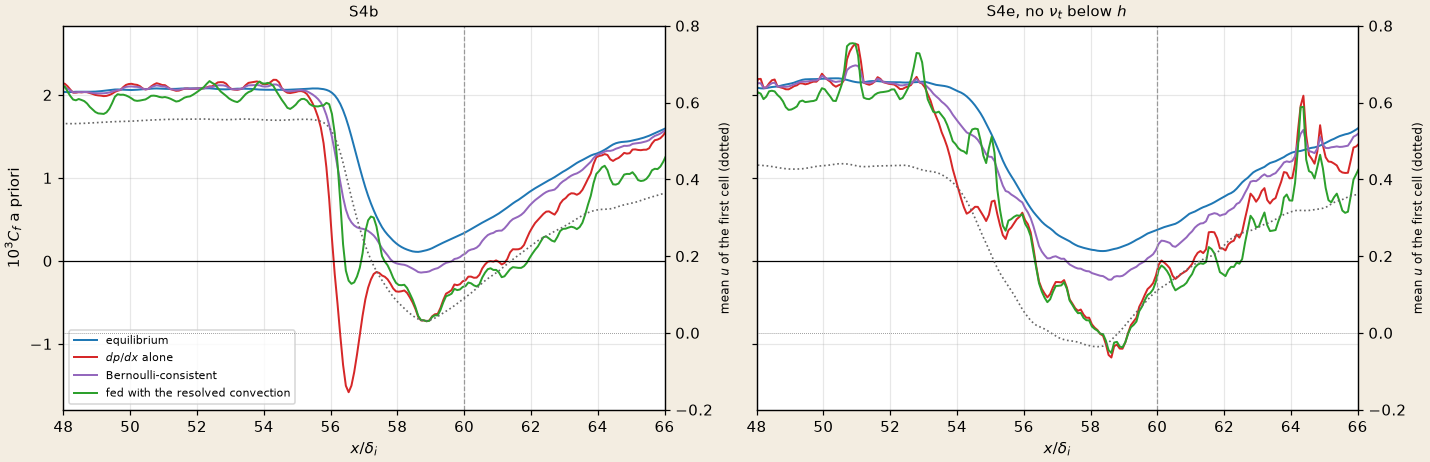
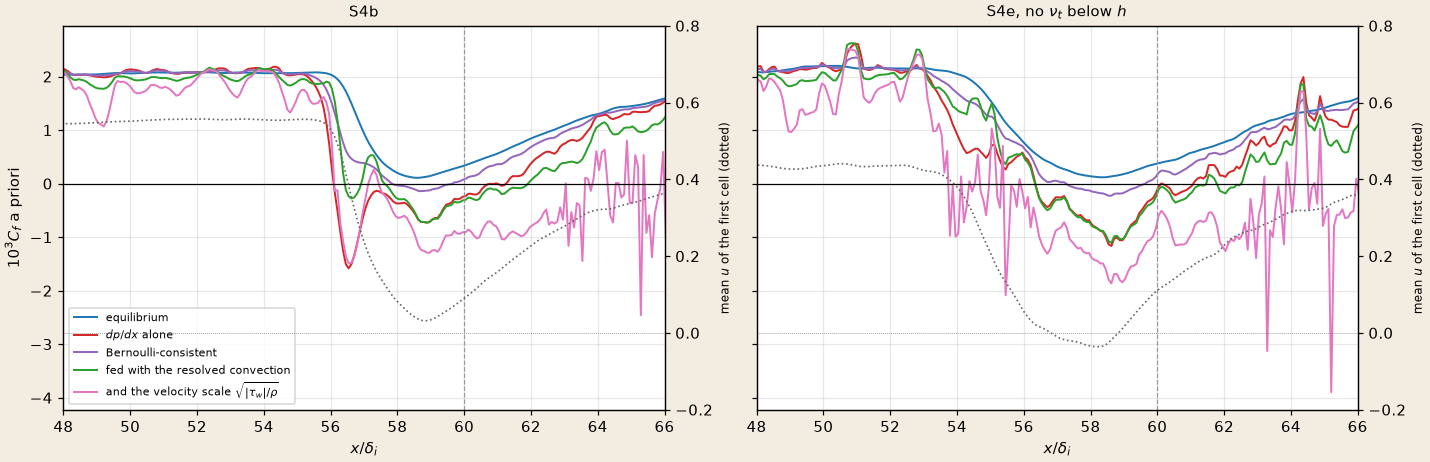
docs(flume): S4i, the convection-fed wall model without the resolved stress in the SBLI: tau_w reverses, the flow does not (#121)
P3 item 4. S4b restarted at t 1200 with wall_model_resolved_stress (the resolved stress removed, the
velocity scale from tau_w; it passes the zero-gradient gate), to t 1450 (job 1367094, one node,
4 A30, 6 h 01 min), statistics over the 24 checkpoints of t >= 1300 (post-processing job 1367097:
compare, fields, compression, reversal).

- C_f < 0 over x 56.96-62.38 (3.01 delta_0, negative over 1.99 of it), minimum -3.41e-3 at x 57.3,
  while the time-mean u of the first cell stays positive (minimum 0.068); the resolved flow reverses
  half as much as S4b's; L_int 2.94 delta_0 (S4b 3.16, DNS 3.30), the onset 0.5 delta_0 later;
  upstream C_f within 6 % of S4b's (S4h +5..+12 %).
- The cause is the velocity scale: as tau_w approaches zero the eddy viscosity vanishes and the
  integrated adverse forcing puts tau_w on a negative, laminar branch. sbli_oracle.py convective
  gains the variant (cf_convective_tau): on S4b's mean field it is negative over 81 % of
  55 <= x <= 64 (the |tau| + |S| scale 54 %), minimum -2.46e-3, 23 sign changes against 2-4.
- sbli_oracle.py compare prints "nowhere" instead of nan when nothing separates.

Docs: sbli.md "The run: S4i" (two tables, three bullets), the header S4b-S4i, the captions, Not done;
streams index row S4i; turbulence.md and input.md: the key's scale fails under the adverse
gradient; figures sbli-pg-runs, sbli-reversal, sbli-convective (light and dark) with S4i and the
tau_w-scale a priori.
[…]

diff --git a/src/tests/flume/verification/turbulence/sbli_oracle.py b/src/tests/flume/verification/turbulence/sbli_oracle.py
@@ -205,9 +205,10 @@ def compare(work: Path, x_imp: float, theta_deg: float, t0: float, json_out: str
     print(f"incoming layer at x_imp = {x_imp:g} (fit over [{x_imp - 15:g}, {x_imp - 6:g}]): delta_0 {delta0:.3f}, delta* {dstar0:.4f} (nominal {dstar0_nom:.4f}), "
           f"theta {theta0:.4f}, Re_theta {re_theta_nom:.0f} (against the edge state {re_theta_edge:.0f}); H at x_imp - 10 {h_edge[int((x_imp - 10) / dx)]:.2f}")
     print(f"wall pressure upstream: p_w / p_inf {np.mean(p_w[(x > x_imp - 25.0) & (x < x_imp - 15.0)]) / p_inf:.4f} over [{x_imp - 25:g}, {x_imp - 15:g}]")
-    print(f"separation: C_f < 0 from x = {x_sep:.2f} to {x_att:.2f}: L_sep / delta_0 {l_sep / delta0:.2f} (Volpiani et al. adiabatic {theta_deg:g} deg, Re_theta 1050: "
-          f"{vol.get('a', float('nan')):.2f})")
-    print(f"separation of the resolved flow: mean u < 0 in the first cell from x = {x_sep1:.2f} to {x_att1:.2f}: L_sep / delta_0 {l_sep1 / delta0:.2f}")
+    span = f"from x = {x_sep:.2f} to {x_att:.2f}: L_sep / delta_0 {l_sep / delta0:.2f}" if l_sep > 0.0 else "nowhere: L_sep 0"
+    print(f"separation: C_f < 0 {span} (Volpiani et al. adiabatic {theta_deg:g} deg, Re_theta 1050: {vol.get('a', float('nan')):.2f})")
+    span = f"from x = {x_sep1:.2f} to {x_att1:.2f}: L_sep / delta_0 {l_sep1 / delta0:.2f}" if l_sep1 > 0.0 else "nowhere: L_sep 0"
+    print(f"separation of the resolved flow: mean u < 0 in the first cell {span}")
     print(f"incident shock: foot at x = {x_inc_wall:.2f} (x_imp {x_imp:g}); reflected shock: {len(yr)} rows, {beta_r:.2f} deg to the wall, apparent origin x_ref {x_ref:.2f}")
     print(f"L_int = x_imp - x_ref {l_int:.3f}: L_int / delta_0 {l_int / delta0:.2f} (Volpiani et al. {vol.get('b', float('nan')):.2f}); Souverein L* = L_int / (delta* g3) "
           f"{l_star:.3f}, g3 {g3:.3f}, Se {se:.3f}")
@@ -581,7 +582,8 @@ def convective(npz: Path, json_out: str | None, gas_args: dict) -> int:
     (linear in y between the cell centres, F(0) = dp/dx: no convection at the wall), the eddy viscosity on sqrt((|tau| + |S|) / rho): the
     steady thin-boundary-layer balance of Wang & Moin (2002) or Park & Moin (2014), with the convection taken from the resolved cells instead of
     from its own profile. Against: the equilibrium model, the pressure gradient alone (S4d's), the Bernoulli-consistent one (S4g's), and the mean
-    u of the first cell. A priori on time means: what the model would return for the mean field, not what a run with it converges to."""
+    u of the first cell; and the eddy viscosity on sqrt(|tau| / rho) (`wall_model_resolved_stress`: on a mean field the convection is the mean
+    flow's, without the resolved stress the key removes). A priori on time means: what the model would return for the mean field, not what a run with it converges to."""
     d = np.load(npz)
     x, y, delta0, x_imp = d["x"], d["y"], float(d["delta0"]), float(d["x_imp"])
     dx, dy = x[1] - x[0], y[1] - y[0]
@@ -620,6 +622,7 @@ def convective(npz: Path, json_out: str | None, gas_args: dict) -> int:
     cf_pg = 2.0 * wall_model(h, us, ts, ps, tw, gas, px=px[idx])[0]
     cf_b = 2.0 * wall_model(h, us, ts, ps, tw, gas, px=px[idx], ypg=4.0)[0]
     cf_c = 2.0 * wall_model(h, us, ts, ps, tw, gas, forcing=forcing)[0]
+    cf_ct = 2.0 * wall_model(h, us, ts, ps, tw, gas, forcing=forcing, scale="tau")[0]  # wall_model_resolved_stress's velocity scale
     xs = x[idx]
 
     def sep(cf: np.ndarray) -> str:
@@ -628,13 +631,13 @@ def convective(npz: Path, json_out: str | None, gas_args: dict) -> int:
 
     u1 = u[idx, 0]
     print(f"== {npz.stem}: x {xs[0]:.1f}-{xs[-1]:.1f}, sample the 3rd cell (h {2.5 * dy:.3f}), delta_0 {delta0:.3f}")
-    print(f"  C_f < 0, equilibrium model: {sep(cf_eq)}; dp/dx alone: {sep(cf_pg)}; Bernoulli-consistent: {sep(cf_b)}; convection-fed: {sep(cf_c)}")
+    print(f"  C_f < 0, equilibrium model: {sep(cf_eq)}; dp/dx alone: {sep(cf_pg)}; Bernoulli-consistent: {sep(cf_b)}; convection-fed: {sep(cf_c)}; and the velocity scale from tau_w: {sep(cf_ct)}")
     print(f"  mean u < 0 in the first cell: {sep(u1)}")
     print(f"  C_f minimum (1e-3): equilibrium {1e3 * cf_eq.min():.3f}, dp/dx {1e3 * cf_pg.min():.3f}, Bernoulli {1e3 * cf_b.min():.3f}, "
-          f"convection-fed {1e3 * cf_c.min():.3f}")
+          f"convection-fed {1e3 * cf_c.min():.3f}, and the scale from tau_w {1e3 * cf_ct.min():.3f}")
     if json_out:
         Path(json_out).write_text(json.dumps({"x": xs.tolist(), "cf_eq": cf_eq.tolist(), "cf_pg": cf_pg.tolist(), "cf_bernoulli": cf_b.tolist(),
-                                              "cf_convective": cf_c.tolist(), "u1": u1.tolist(), "delta0": delta0, "x_imp": x_imp}))
+                                              "cf_convective": cf_c.tolist(), "cf_convective_tau": cf_ct.tolist(), "u1": u1.tolist(), "delta0": delta0, "x_imp": x_imp}))
     return 0
 
 def main() -> int:

diff --git a/src/tests/flume/verification/make_doc_figures.py b/src/tests/flume/verification/make_doc_figures.py
@@ -3155,15 +3155,16 @@ def fig_sbli_pg(out: Path, runs: Path) -> None:
 
 def fig_sbli_pg_runs(out: Path, runs: Path) -> None:
     """#121 P1, P2: the pressure-gradient runs restarted from S4b at t = 1200, statistics t >= 1300: S4d (dp/dx), S4g (dp/dx, Bernoulli-consistent,
-    y*_pg 4), S4f (dp/dx without the eddy viscosity below h), S4h (fed with the resolved convection, when its JSON exists), with S4b and S4e (no
+    y*_pg 4), S4f (dp/dx without the eddy viscosity below h), S4h (fed with the resolved convection), S4i (and the resolved stress
+    removed, the velocity scale from tau_w), each when its JSON exists, with S4b and S4e (no
     eddy viscosity, no dp/dx). Data: the sbli_oracle compare JSONs
-    <runs>/sbli/sbli-m2p28-8{,-pg,-pgb,-pgnu,-nonu}.json. Left: the mean wall pressure against x* with the DNS and the experiment; right: C_f against x,
+    <runs>/sbli/sbli-m2p28-8{,-pg,-pgb,-pgnu,-nonu,-pgc,-pgr}.json. Left: the mean wall pressure against x* with the DNS and the experiment; right: C_f against x,
     the reversed stretches shaded."""
     import json  # noqa: PLC0415
 
     runs_ = [("sbli-m2p28-8", "C0", "S4b"), ("sbli-m2p28-8-nonu", "C1", r"S4e, no $\nu_t$ below $h$"), ("sbli-m2p28-8-pg", "C3", "S4d, $dp/dx$"),
              ("sbli-m2p28-8-pgb", "C4", "S4g, $dp/dx$ Bernoulli-consistent"), ("sbli-m2p28-8-pgnu", "C2", r"S4f, $dp/dx$, no $\nu_t$ below $h$"),
-             ("sbli-m2p28-8-pgc", "k", "S4h, fed with the resolved convection")]
+             ("sbli-m2p28-8-pgc", "k", "S4h, fed with the resolved convection"), ("sbli-m2p28-8-pgr", "C6", "S4i, and the resolved stress removed")]
     runs_ = [r for r in runs_ if (runs / "sbli" / f"{r[0]}.json").exists()]
     js = {name: json.loads((runs / "sbli" / f"{name}.json").read_text()) for name, _, _ in runs_}
     fig, axs = plt.subplots(1, 2, figsize=(13.0, 4.4), constrained_layout=True)
@@ -3207,7 +3208,8 @@ def fig_sbli_reversal(out: Path, runs: Path) -> None:
     import json  # noqa: PLC0415
 
     runs_ = [("s4b", "S4b", "C0"), ("s4c", "S4c, 2:1 box", "C2"), ("s4d", "S4d, $dp/dx$", "C3"), ("s4e", r"S4e, no $\nu_t$ below $h$", "C1"),
-             ("s4f", r"S4f, $dp/dx$, no $\nu_t$", "C5"), ("s4g", "S4g, Bernoulli-consistent", "C4"), ("s4h", "S4h, convection-fed", "k")]
+             ("s4f", r"S4f, $dp/dx$, no $\nu_t$", "C5"), ("s4g", "S4g, Bernoulli-consistent", "C4"), ("s4h", "S4h, convection-fed", "k"),
+             ("s4i", "S4i, resolved stress removed", "C6")]
     runs_ = [r for r in runs_ if (runs / "sbli" / f"rev2-{r[0]}.json").exists()]
     fig, axs = plt.subplots(1, 2, figsize=(13.0, 4.2), constrained_layout=True, gridspec_kw={"width_ratios": [1.6, 1.0]})
     first, third, labels, colors = [], [], [], []
@@ -3236,8 +3238,9 @@ def fig_sbli_reversal(out: Path, runs: Path) -> None:
 
 def fig_sbli_convective(out: Path, runs: Path) -> None:
     """#121: the wall model a priori on the mean fields of S4b and S4e (turbulence/sbli_oracle.py convective, <runs>/sbli/<case>-convective.json):
-    C_f of the equilibrium model, with the pressure gradient alone, Bernoulli-consistent, and fed with the convection of the resolved cells below
-    the sample; the mean u of the first cell on the right axis."""
+    C_f of the equilibrium model, with the pressure gradient alone, Bernoulli-consistent, fed with the convection of the resolved cells below
+    the sample, and that with the velocity scale from tau_w (wall_model_resolved_stress, when the JSON holds it); the mean u of the first cell on the
+    right axis."""
     import json  # noqa: PLC0415
 
     fig, axs = plt.subplots(1, 2, figsize=(13.0, 4.2), constrained_layout=True, sharey=True)
@@ -3245,8 +3248,10 @@ def fig_sbli_convective(out: Path, runs: Path) -> None:
         j = json.loads((runs / "sbli" / f"{case}-convective.json").read_text())
         x = np.array(j["x"])
         for key, c, name in (("cf_eq", "C0", "equilibrium"), ("cf_pg", "C3", "$dp/dx$ alone"), ("cf_bernoulli", "C4", "Bernoulli-consistent"),
-                             ("cf_convective", "C2", "fed with the resolved convection")):
-            ax.plot(x, 1e3 * np.array(j[key]), "-", color=c, lw=1.3, label=name)
+                             ("cf_convective", "C2", "fed with the resolved convection"),
+                             ("cf_convective_tau", "C6", r"and the velocity scale $\sqrt{|\tau_w|/\rho}$")):
+            if key in j:
+                ax.plot(x, 1e3 * np.array(j[key]), "-", color=c, lw=1.3, label=name)
         ax.axhline(0.0, color="k", lw=0.8)
         ax.axvline(j["x_imp"], color="0.6", ls="--", lw=0.8)
         ax.set_xlim(48.0, 66.0)

diff --git a/docs/applications/flume/verification/streams/sbli.md b/docs/applications/flume/verification/streams/sbli.md
@@ -2,7 +2,7 @@
 
 | ID | Milestone | Type | Legs | Backends | Figure |
 |---|---|---|---|---|---|
-| — (campaign `tbl_cases_s4.txt`) | [#121](https://github.com/szaghi/adam/issues/121) · S4b–S4h | P | none (the pressure-gradient key: wm12) | FNL | yes |
+| — (campaign `tbl_cases_s4.txt`) | [#121](https://github.com/szaghi/adam/issues/121) · S4b–S4i | P | none (the pressure-gradient key: wm12) | FNL | yes |
 
 ## Case and scope
 
@@ -417,7 +417,8 @@ Two more restarts of S4b at $t=1200$, run to $t=1450$, statistics over $t\ge1300
 
 ![The pressure-gradient runs against S4b and S4e](/flume/sbli-pg-runs.png)
 
-*Left: the mean wall pressure of S4b, S4e, S4d, S4g and S4f against the DNS and the experiment; right: $C_f$ from the
+*Left: the mean wall pressure of S4b, S4e, S4d, S4g, S4f, S4h (black, [below](#the-run-s4h)) and S4i (pink,
+[below](#the-run-s4i)) against the DNS and the experiment; right: $C_f$ from the
 wall model's $\tau_w$, the reversed stretches shaded. The legend's $L_{int}$ is `compare`'s, 0.01 below the table's.
 `make_doc_figures.py --only sbli-pg-runs`.*
 
@@ -515,7 +516,8 @@ centres, $F=dp/dx$ at the wall, where the convection vanishes) and applied to th
 
 ![The wall model a priori on the mean fields](/flume/sbli-convective.png)
 
-*$C_f$ of the four models on the mean fields of S4b (left) and S4e (right), the mean $u$ of the first cell dotted.
+*$C_f$ of the four models on the mean fields of S4b (left) and S4e (right), and of the convection-fed one with the
+velocity scale from $\tau_w$ (pink, [S4i](#the-run-s4i)); the mean $u$ of the first cell dotted.
 `sbli_oracle.py convective`, `make_doc_figures.py --only sbli-convective`.*
 
 - **Where the resolved flow obeys Bernoulli, the model follows it.** At the steepest gradient ($x\approx56.5$) the
@@ -564,11 +566,59 @@ line of [the figure above](#the-pressure-gradient-without-the-convection-with-it
 - **So the convection is a lever, and this form of it is not yet a model.** It moves both the onset and $L_{int}$ the
   right way, which no equilibrium-type variant did, but a model that changes the zero-gradient layer by 10 % fails the
   layer before the interaction. The correction is the reduced eddy viscosity (or the convection of the mean flow only),
-  checked on the zero-gradient boundary layer before the interaction.
+  checked on the zero-gradient boundary layer before the interaction: S4i, below.
+
+### The run: S4i
+
+S4h's model with `wall_model_resolved_stress` ([turbulence](../../turbulence#the-resolved-shear-stress)): the filtered
+resolved shear stress of the convection cells removed from the forcing, and the eddy viscosity's velocity scale from
+$\tau_w$ alone. It passes the zero-gradient gate (the Mach 2.5 layer's $C_f$ within 0.3 % of the equilibrium model's,
+[boundary layer](../turbulence/boundary-layer#the-wall-model-fed-with-the-resolved-convection)). S4b restarted at
+$t=1200$, to $t=1450$ on one node (4 A30, 6 h 01 min), statistics over the 24 checkpoints of $t\ge1300$; the pink line
+of [the figure above](#the-pressure-gradient-without-the-convection-with-it-and-without-the-eddy-viscosity).
+
+| | S4i, the resolved stress removed, scale from $\tau_w$ | S4h, fed with the resolved convection | S4b | DNS, $Re_\theta=6882$ |
+|---|---|---|---|---|
+| $L_{int}/\delta_0$ (the time-mean field) | **2.94** | 3.36 | 3.16 | 3.30 |
+| $C_f<0$ (`compare`) | $x=56.96$–62.38 ($3.01\,\delta_0$, $x^*=-0.58$ to 0.45), negative over $1.99\,\delta_0$ of it | 0.18 | 0 | 2.16 ($x^*=-0.8$ to $-0.15$) |
+| $C_f$ minimum ($10^{-3}$) | $-3.41$ at $x=57.3$ | $-0.30$ | 0.21 | |
+| time-mean $u<0$ in the first cell | **none** (its minimum $u$ 0.068, at $x=58.9$) | $0.41\,\delta_0$ | none | |
+| 5 % / 50 % of the rise, ahead of $x_{imp}$ | $1.85$ / $1.59\,\delta_0$ | 2.63 / 2.23 | 2.34 / 1.96 | 4.13 / 3.60 |
+| first-cell Mach number at $x_{imp}-5\,\delta_0$ | 0.98 | 0.91 | 0.98 | 0.83 |
+| reversed area per unit span, mean (max), $\delta_0^2$ | 0.033 (0.054) | 0.091 | 0.068 (0.142) | |
+| first / third cells reversed | 4.8 % / 2.5 % | | 9.5 % / 5.1 % | |
+| $C_f$ upstream against S4b: $x=15$–25, 25–35, 35–45, 45–52 | $-0.4$, $-6.0$, $-5.8$, $-2.5$ % | +5, +6, +9.5, +12 % | | |
+| $C_f$ behind the interaction against S4b: $x=64$–70, 70–80 | $-36$, $-11$ % | | | |
+
+| A priori on the mean fields (`convective`), $C_f<0$ over $55\le x\le64$ | $dp/dx$ alone | convection-fed, scale $\sqrt{(\lvert\tau_w\rvert+\lvert S\rvert)/\rho}$ | and the scale $\sqrt{\lvert\tau_w\rvert/\rho}$ |
+|---|---|---|---|
+| S4b's mean field | 56 % | 54 % (min $-0.73$) | **81 %** (min $-2.46$) |
+| S4e's | 52 % | 66 % (min $-1.11$) | **94 %** (min $-3.90$) |
+| S4i's | 42 % | 44 % (min $-1.34$) | **66 %** (min $-3.23$) |
+
+- **The wall stress reverses, the flow does not.** $C_f$ is negative over two stretches, deep at the foot of the
+  compression ($x=56.96$–57.79, down to $-3.4\cdot10^{-3}$, S4d's inconsistent balance $-1.9\cdot10^{-3}$) and
+  shallow behind the impingement ($x=59.8$–62.4). Between them, at $x=57.9$–59.7, it is positive: there the first cell is
+  slowest ($u\approx0.09$), while at the deep stretch it moves at 0.33. The resolved flow reverses less than in any
+  earlier run (half S4b's area and first-cell fraction), and its first cell never reverses in the mean.
+- **The interaction shrinks.** $L_{int}$ falls from 3.16 to $2.94\,\delta_0$ and the compression starts
+  $0.5\,\delta_0$ later than S4b's (5 % of the rise $1.85\,\delta_0$ ahead of $x_{imp}$, against 2.34; the DNS 4.13):
+  the opposite of S4h's shift. A negative wall stress under a forward first cell pushes the near-wall flow downstream,
+  against the pressure rise.
+- **The cause is the velocity scale, and the mean fields show it a priori.** With the scale from $\tau_w$, the eddy
+  viscosity vanishes as $\tau_w$ approaches zero, the model's layer becomes laminar, and the integrated adverse forcing
+  (of order $(dp/dx)\,h/2\approx5\cdot10^{-3}$) outweighs $\mu U(h)/h$ (about $7\cdot10^{-5}$): $\tau_w$ jumps to the
+  negative branch. On S4b's mean field the variant is negative over 81 % of the interaction (the scale with $|S|$ 54 %)
+  with a minimum three times deeper, and its sign changes 23 times along $x\ge54$, against 2 to 4 for the other variants.
+  The a priori was run after S4i; it would have stopped the run.
+- **So the zero-gradient gate is necessary, not sufficient.** The scale that removes the zero-gradient bias (the
+  forcing's fluctuation in $|S|$) also removes the eddy viscosity that the adverse gradient needs. Upstream the run
+  confirms the zero-gradient result: $C_f$ within 6 % of S4b's (S4h's +5 to +12 %), lower behind the inflow, as in the
+  gate's recovery stretch.
 
 ## Not done
 
-- A separation of the right length and place. The equilibrium-type models do not give it: the pressure gradient alone opens $0.6\,\delta_0$ by an inconsistent balance, the consistent one none, the slower near-wall layer $0.14\,\delta_0$ ([above](#the-pressure-gradient-without-the-convection-with-it-and-without-the-eddy-viscosity)). The model fed with the resolved convection (S4h) moves the onset and $L_{int}$ the right way and opens $0.18\,\delta_0$ where the DNS's bubble begins, but counts the resolved stress twice ($C_f$ of the zero-gradient layer +5 to +12 %): left, its reduced eddy viscosity (Park & Moin 2014), checked on the zero-gradient layer first; and a matching height fixed in $\delta_i$ across the levels.
+- A separation of the right length and place. The equilibrium-type models do not give it: the pressure gradient alone opens $0.6\,\delta_0$ by an inconsistent balance, the consistent one none, the slower near-wall layer $0.14\,\delta_0$ ([above](#the-pressure-gradient-without-the-convection-with-it-and-without-the-eddy-viscosity)). The model fed with the resolved convection (S4h) moves the onset and $L_{int}$ the right way and opens $0.18\,\delta_0$ where the DNS's bubble begins, but counts the resolved stress twice ($C_f$ of the zero-gradient layer +5 to +12 %). With the resolved stress removed and the velocity scale from $\tau_w$ (S4i) it passes the zero-gradient layer, but the scale collapses under the adverse gradient: $\tau_w<0$ under a forward first cell and a shorter interaction ([above](#the-run-s4i)). Left: a velocity scale that keeps the mean forcing without its fluctuation, checked a priori on the zero-gradient `.wmf` and on the interaction's mean fields before a run; and a matching height fixed in $\delta_i$ across the levels.
 - The late compression ($x^*\approx-0.6$ half-way against the DNS's $-1.1$), unchanged by the near-wall grid and by the pressure-gradient term; moved 40 % of the way by taking out the eddy viscosity below $h$ (S4e), which also moves the incoming layer off the DNS's: the matching between the model and the resolved near-wall cells.
 - The wall-pressure fluctuations and the low-frequency unsteadiness.
 - The recycling–rescaling inflow (S5).

diff --git a/docs/applications/flume/input.md b/docs/applications/flume/input.md
@@ -502,7 +502,7 @@ All six sections are required, even along null directions.
 | `wall_model_pressure_gradient_filter` with `wall_model_pressure_gradient` | real | no (0) | `>= 0` | Time scale $T_p$ of the exponential filter of the pressure gradient; 0 for none; ignored without `wall_model_pressure_gradient` ([turbulence](./turbulence#pressure-gradient)). |
 | `wall_model_pressure_gradient_ypg` with `wall_model_pressure_gradient` | real | no (0) | `>= 0` | $y^*_{pg}$ of the Bernoulli-consistent variant (Hickel et al. 2012: 4), the height in viscous units of the gradient above which convection balances it; 0 for none; ignored without `wall_model_pressure_gradient` ([turbulence](./turbulence#bernoulli-consistent-variant)). |
 | `wall_model_convection` with `wall_model_pressure_gradient` | logical | no (`.false.`) | needs `wall_model_pressure_gradient_filter > 0`; not with `wall_model_pressure_gradient_ypg` | The model fed with the resolved convection of the cells up to the sample, filtered as the gradient ([turbulence](./turbulence#fed-with-the-resolved-convection)). |
-| `wall_model_resolved_stress` with `wall_model_convection` | logical | no (`.false.`) | | The resolved shear stress of the convection cells removed from the model's forcing (the mean convection holds its gradient, which the model's eddy viscosity already carries; Park & Moin 2014), and the eddy viscosity's velocity scale from $\tau_w$ alone (the forcing linear in the balance, Wang & Moin 2002) ([turbulence](./turbulence#the-resolved-shear-stress)). |
+| `wall_model_resolved_stress` with `wall_model_convection` | logical | no (`.false.`) | | The resolved shear stress of the convection cells removed from the model's forcing (the mean convection holds its gradient, which the model's eddy viscosity already carries; Park & Moin 2014), and the eddy viscosity's velocity scale from $\tau_w$ alone (the forcing linear in the balance, Wang & Moin 2002) ([turbulence](./turbulence#the-resolved-shear-stress)). Passes the zero-gradient layer; under the interaction's adverse gradient the scale collapses and $\tau_w$ turns negative under forward flow (S4i): not for separated flows. |
 | `r`, `u`, `p` with `inflow-digital-filter` | real | yes | `> 0`, otherwise fatal | Free-stream density, speed along the inward normal, pressure. **Euler** only, one such face per realm. |
 | `df_profile` | string | with `inflow-digital-filter` | file must exist, 7 numbers per row, $y$ increasing, $T > 0$ (fatal) | The layer table: `y / delta`, `U / U_inf`, `T / T_inf`, `R_uu`, `R_vv`, `R_ww`, `R_uv` in units of $U_\infty^2$ (v wall-normal, w spanwise), `#` comments; the free stream beyond its last row. `tbl_oracle.py profile` writes it from a DNS station file. |
 | `df_delta`, `df_spacing` | real | with `inflow-digital-filter` | `> 0` | Layer thickness (the table's unit of $y$); spacing of the filter plane, about the grid's. |

diff --git a/docs/applications/flume/verification/streams/index.md b/docs/applications/flume/verification/streams/index.md
@@ -49,10 +49,11 @@ The toolchain is [#121](https://github.com/szaghi/adam/issues/121), which contin
 | S4f | S4d without the eddy viscosity below the matching height: the bubble shrinks, the onset moves | a run restarted from S4b | [Shock/boundary-layer interaction](./sbli#the-pressure-gradient-without-the-convection-with-it-and-without-the-eddy-viscosity) |
 | S4g | The Bernoulli-consistent pressure gradient (`wall_model_pressure_gradient_ypg`): no separation | wm2 (`test_wall_model`); a run restarted from S4b | [Shock/boundary-layer interaction](./sbli#the-pressure-gradient-without-the-convection-with-it-and-without-the-eddy-viscosity) |
 | S4h | The model fed with the resolved convection (`wall_model_convection`): the onset and $L_{int}$ move toward the DNS, the zero-gradient $C_f$ by +5 to +12 % | wm2, wm13 (turbulence); a run restarted from S4b | [Shock/boundary-layer interaction](./sbli#the-run-s4h) |
+| S4i | And the resolved stress removed, the velocity scale from $\tau_w$ (`wall_model_resolved_stress`): passes the zero-gradient layer; in the interaction $\tau_w<0$ under a forward first cell, $L_{int}$ 2.94 | wm13 (turbulence); a run restarted from S4b | [Shock/boundary-layer interaction](./sbli#the-run-s4i) |
 | S5 | Recycling–rescaling turbulent inflow | — | not started |
 
 | Page | Phases | Legs | Type |
 |---|---|---|---|
 | [Non-reflecting boundary](./non-reflecting) | S2 | nr1–nr4 | P |
 | [Shock generator](./shock-generator) | S3, S4a | sg1–sg4 (boundary) | P |
-| [Shock/boundary-layer interaction](./sbli) | S4b–S4h | campaign | P |
+| [Shock/boundary-layer interaction](./sbli) | S4b–S4i | campaign | P |

diff --git a/docs/applications/flume/turbulence.md b/docs/applications/flume/turbulence.md
@@ -328,6 +328,14 @@ against a mean $\tau_w$ of $0.97\cdot10^{-3}$), and $|S|$ in the scale raises th
 averages of that layer (77760 wall columns), against the equilibrium model, the convection-fed model gives +22.9 %, with
 the resolved stress removed +12.4 %, and with the scale $\sqrt{|\tau_w|/\rho}$ as well $-1.5$ %.
 
+That scale fails under a strong adverse gradient. Where $\tau_w$ approaches zero the eddy viscosity vanishes with it, the
+balance between the wall and $h$ becomes laminar, and the integrated forcing, of order $(dp/dx)\,h/2$, outweighs
+$\mu U(h)/h$ by two orders of magnitude: $\tau_w$ jumps to a large negative value whether or not the resolved flow
+reverses. In the interaction ([S4i](./verification/streams/sbli#the-run-s4i)) the key returns $C_f$ down to
+$-3.4\cdot10^{-3}$ under a first cell that moves forward everywhere, and the interaction shrinks. The key passes the
+zero-gradient layer and fails the interaction: a velocity scale that keeps the mean forcing (the adverse gradient)
+without its fluctuation is not in FLUME.
+
 Measured by `test_wall_model`: with no convection and $R=ry$, the model is the pressure-gradient model with $dp/dx-r$ within
 $10^{-10}$; $R=0$ is the convection-fed model; with the scale from $\tau_w$ alone, no forcing is the equilibrium model and
 $R=ry$ is the model with $dp/dx-r$, within $10^{-10}$.
